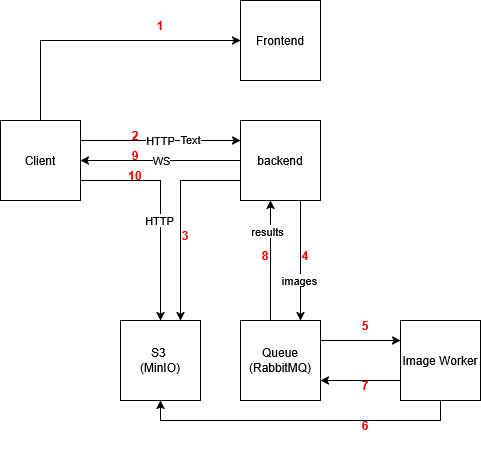
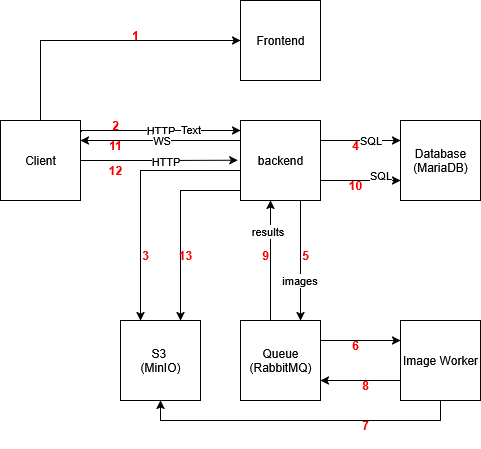
concept

diff --git a/backend/src/routes/ImageRoute.ts b/backend/src/routes/ImageRoute.ts
@@ -7,6 +7,7 @@ import validateRequest from '../middleware/validate-request';
 import amqp from 'amqplib';
 import { inject } from 'inversify';
 import JsonResponse from '../models/jsonReponse/JsonResponse';
+import { v4 as uuidv4 } from 'uuid';
 
 export default class ImageRoute extends AbstractRoute {
   public constructor(@inject(ImageController) private imageController: ImageController) {
@@ -39,12 +40,14 @@ export default class ImageRoute extends AbstractRoute {
     );
 
     // TODO: REMOVE
-    this.getRouter().get('/testrabbitmq', async (req: Request, res: Response) => {
+    this.getRouter().put('/testrabbitmq', async (req: Request, res: Response) => {
       const connection = await amqp.connect('amqp://localhost');
       const channel = await connection.createChannel();
 
       await channel.assertQueue('images', { durable: true });
-      channel.sendToQueue('images', Buffer.from('HELLO FROM SERVER '), { persistent: true });
+      for (let i = 0; i < 100; i++) {
+        channel.sendToQueue('images', Buffer.from(uuidv4()), { persistent: true });
+      }
 
       console.log('Sent task');
       await channel.close();

diff --git a/worker/src/app.ts b/worker/src/app.ts
@@ -37,12 +37,17 @@ async function startWorker() {
     if (!msg) return;
 
     const content = msg.content.toString();
-    console.log(`[>] Received task: ${content}`);
+    console.log(`[>] Start task: ${content}`);
+
+    const queueInfo = await channel.checkQueue(queue);
 
     // Simulate work
-    // await new Promise((res) => setTimeout(res, 1000));
+    await new Promise((res) => setTimeout(res, Math.floor(Math.random() * (1000 - 100 + 1)) + 100));
 
     console.log(`[✓] Task done: ${content}`);
+
+    console.log(`QUEUE: ${queueInfo.messageCount}`);
+
     channel.ack(msg);
   });
 }

diff --git a/README.md b/README.md
@@ -1,17 +1,5 @@
 WORK IN PROGRESS
 
-Start up db (MariaDB), file storage (minIO) and Queue (RabbitMQ)
-
-```shell
-docker-compose up -d --build
-```
-
-Rebuildand rerun just the worker
-
-```shell
-docker-compose up -d --build worker
-```
-
 # Technologies
 
 - Backend: TS NodeJS / Express
@@ -25,3 +13,35 @@ docker-compose up -d --build worker
 # Concept
 
 ![Concept Image](./.img/concept.png)
+
+1. **Client** gets frontend from **FRONTEND**
+2. **Client** uploads image to **BACKEND**
+3. **BACKEND** uploads image to **S3 DATA LAKE**
+4. **BACKEND** writes to **DATABASE**
+5. **BACKEND** forewards job into **QUEUE**
+6. **WORKER** gets job from **QUEUE**
+7. **WORKER** gets image from **S3 DATA LAKE**
+8. **WORKER** forwareds result into **QUEUE**
+9. **BACKEND** gets info from **QUEUE**
+10. **BACKEND** writes result into **DATABASE**
+11. **BACKEND** writes over webservice to **CLIENT**
+12. **CLIENT** asks **backend** for image
+13. **BACKEND** gets proccessed image from **S3 DATA LAKE**
+
+# DEV SETUP
+
+Start up db (MariaDB), file storage (minIO) and Queue (RabbitMQ)
+
+```shell
+docker-compose up -d --build
+cd backend
+npm run dev
+cd frontend
+ng serve
+```
+
+Rebuild and rerun just the worker
+
+```shell
+docker-compose up -d --build worker
+```
